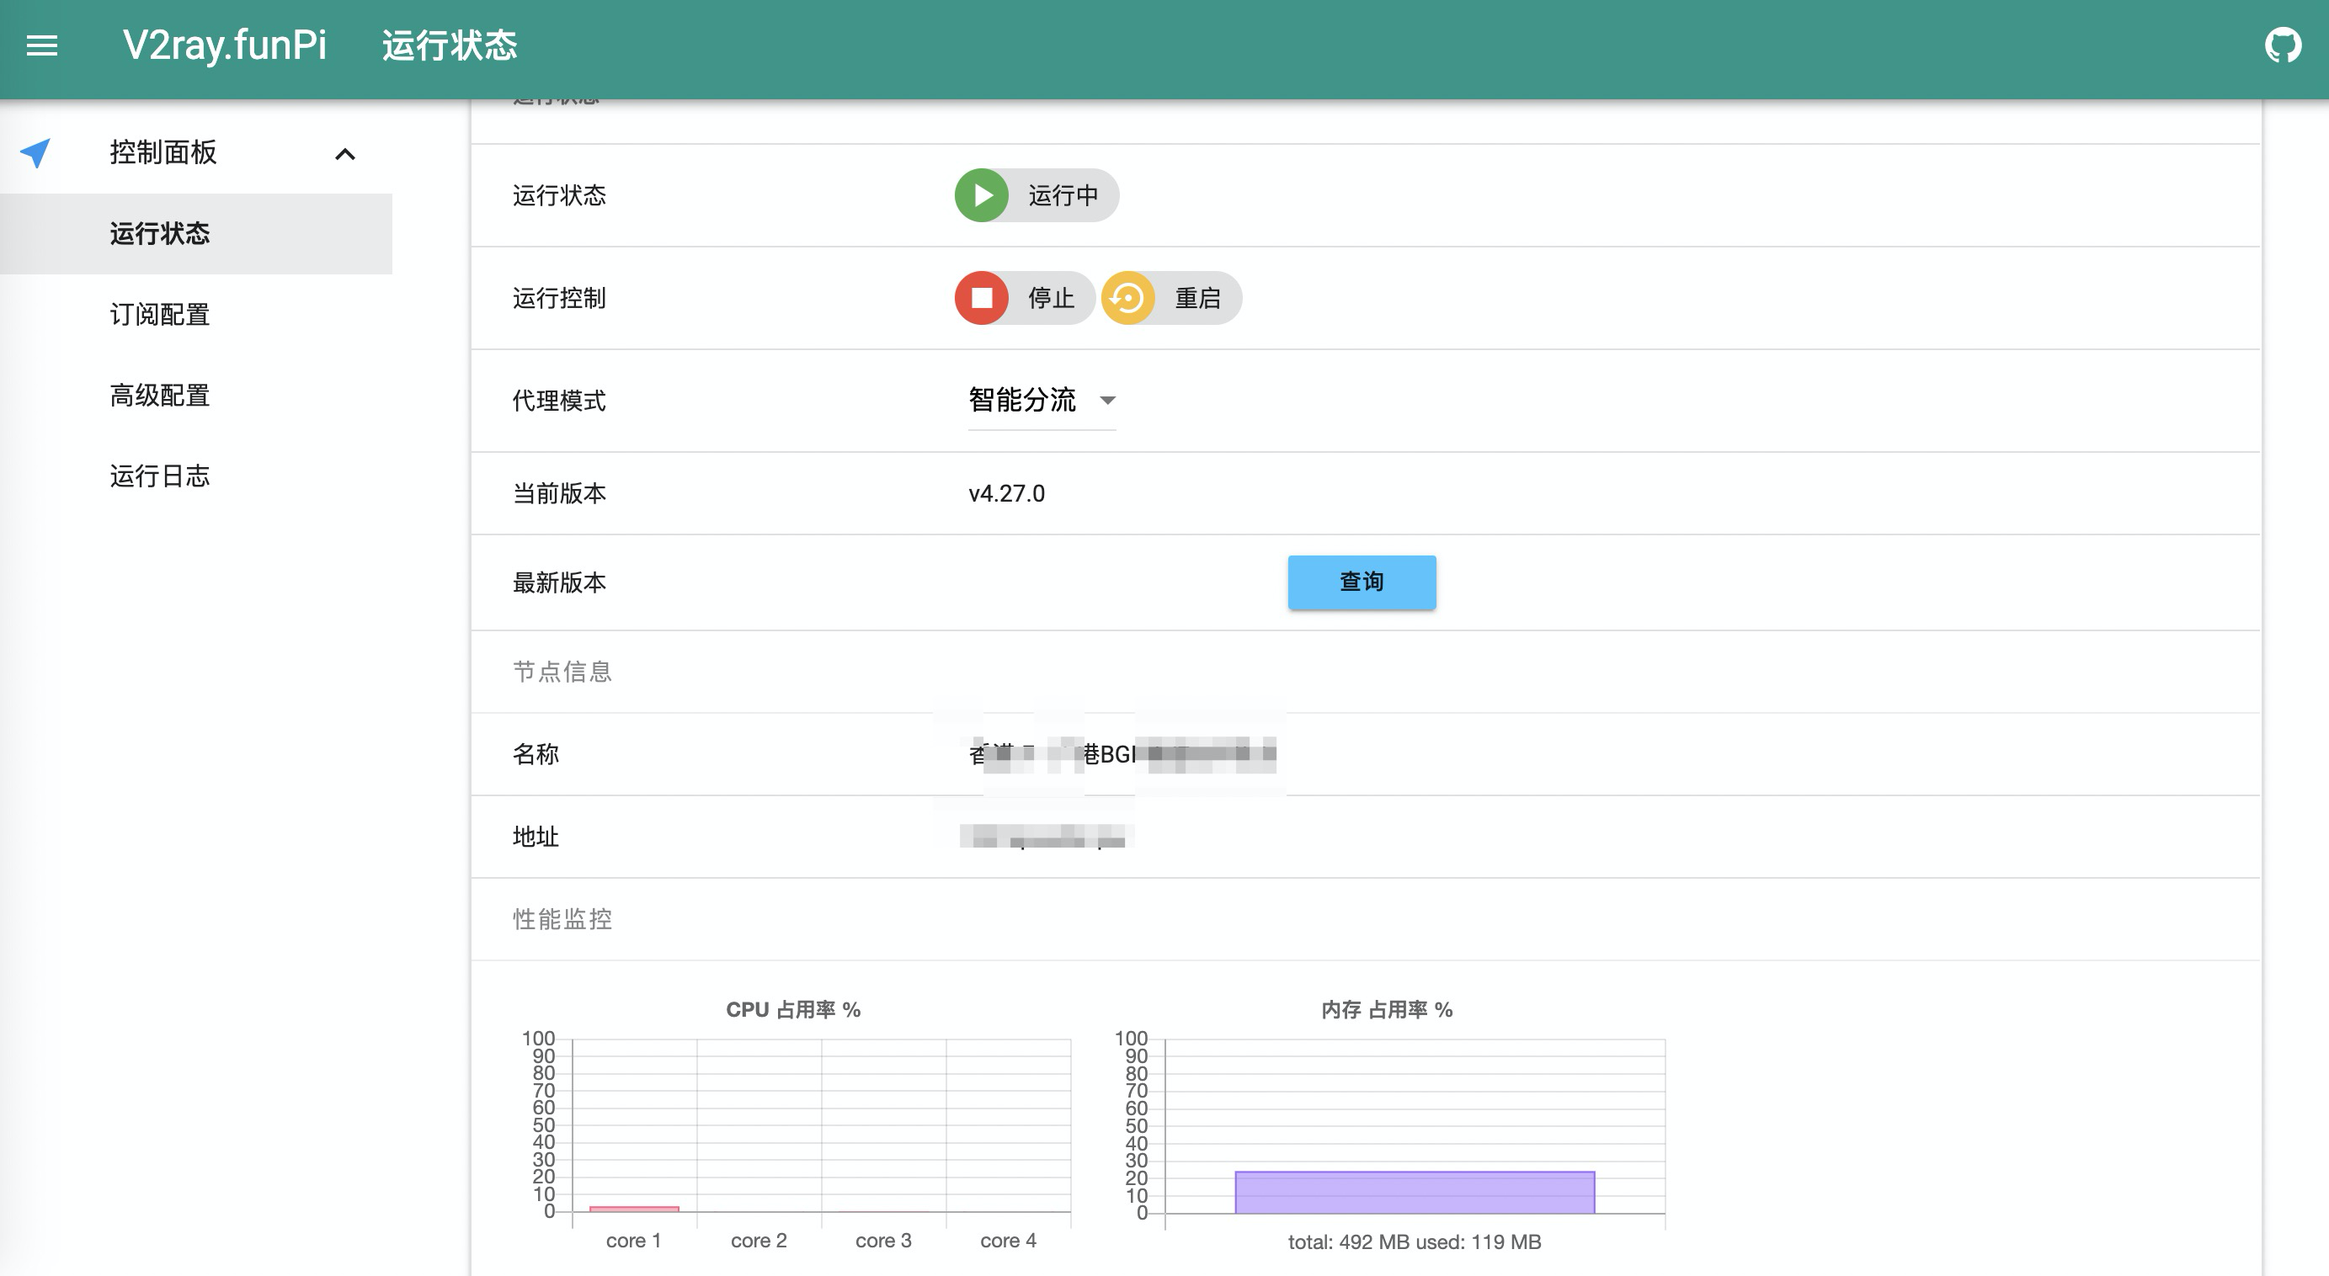
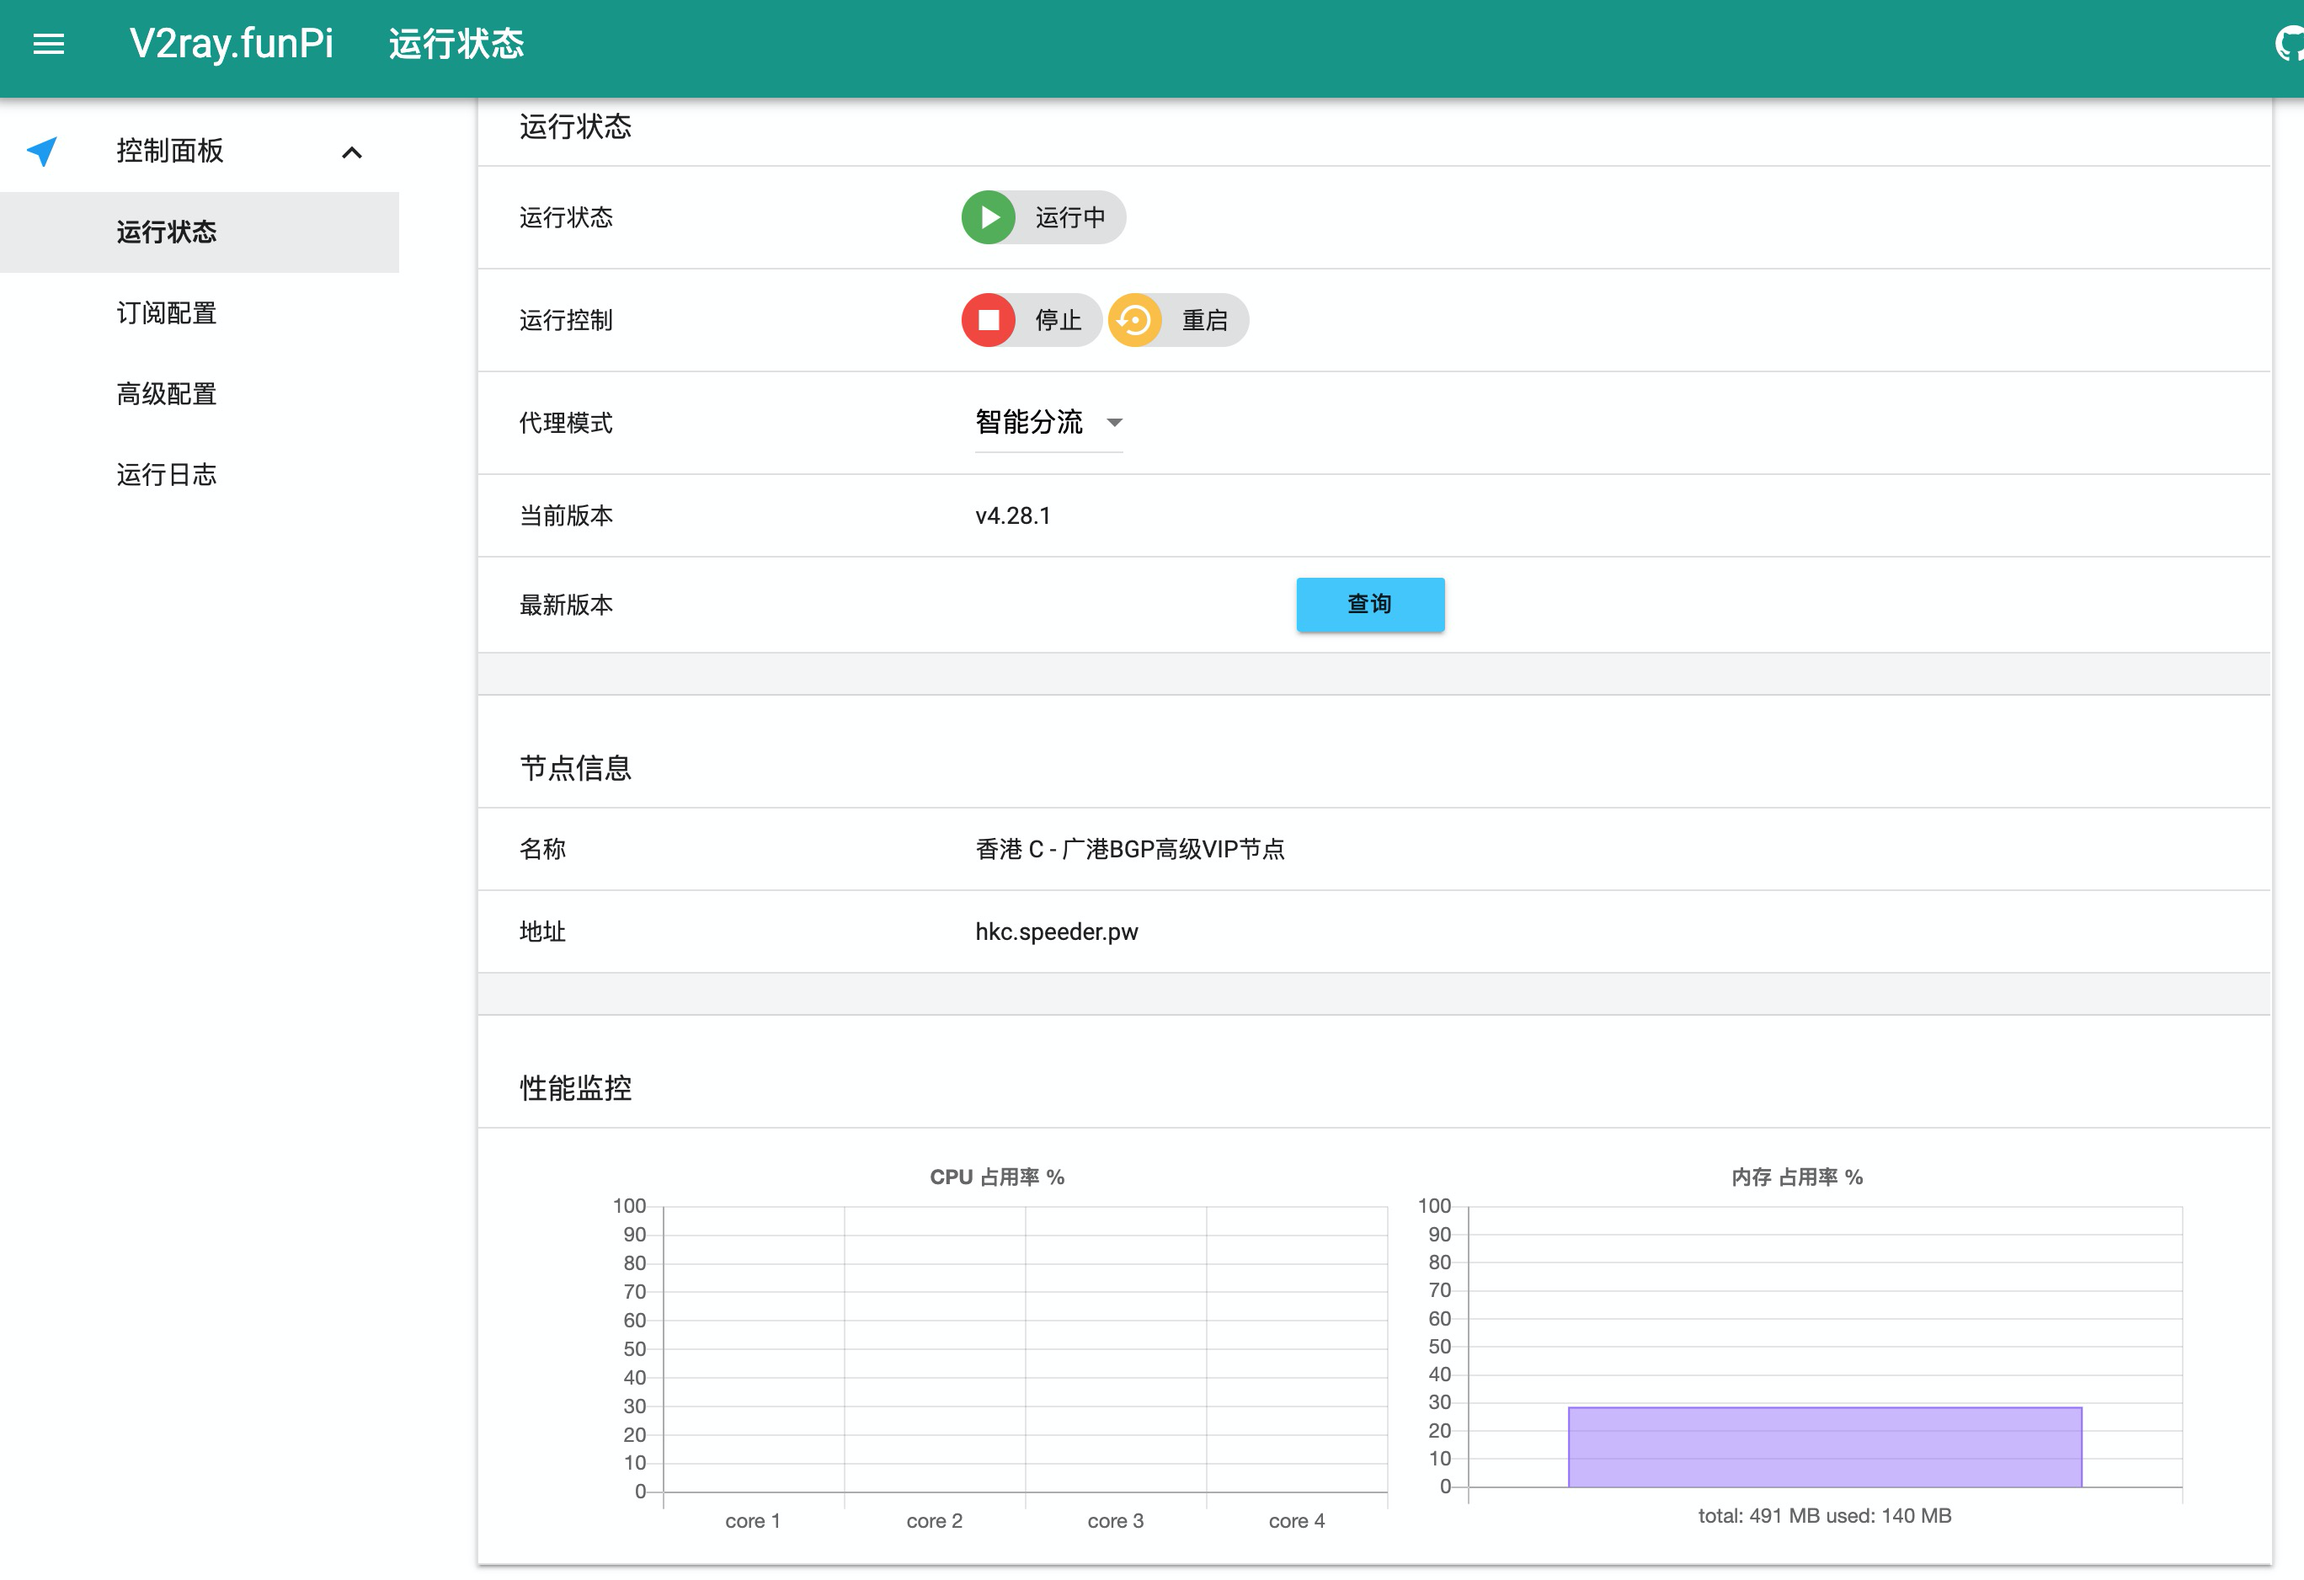
更新截图

diff --git a/README.md b/README.md
@@ -13,6 +13,8 @@
 
 ![4.png](pic/4.png)  
 
+![5.png](pic/5.png)  
+
 ## 硬件支持
 Raspberry Pi 4B  
 [ZeroPi](http://wiki.friendlyarm.com/wiki/index.php/ZeroPi)  
